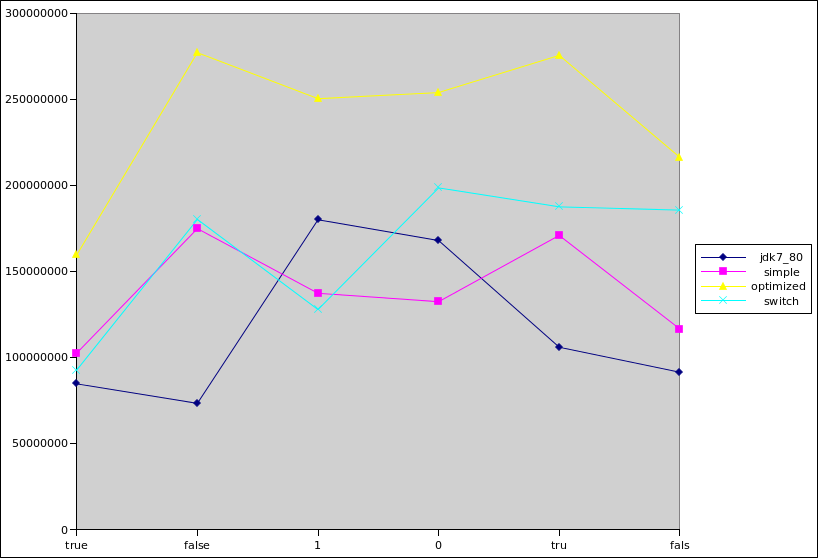
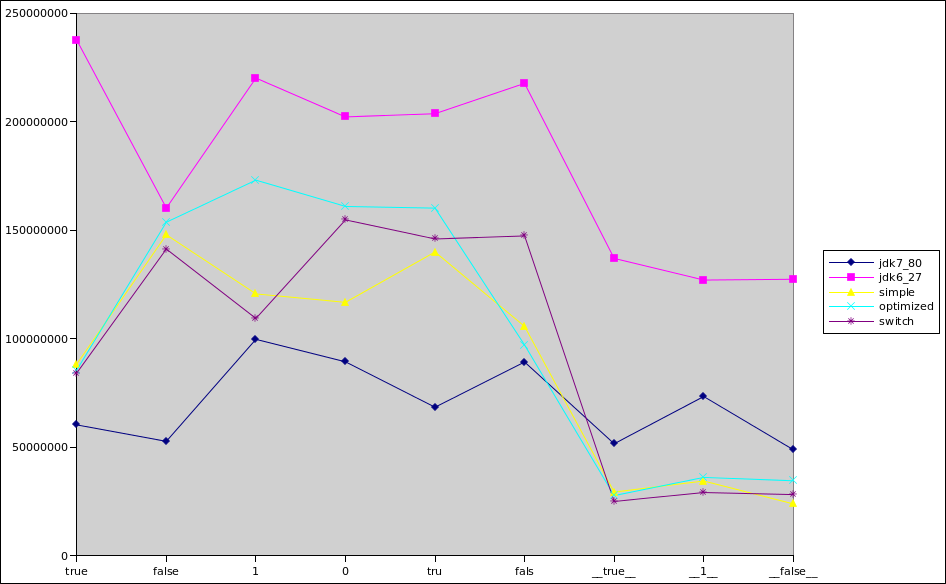
perf tests with whitespaces

diff --git a/README.md b/README.md
@@ -8,32 +8,52 @@ Or just have a look at this [Slideshow](https://docs.google.com/presentation/d/1
 ## Perf Tests (with jmh)
 
 ```
-Benchmark                         (implId)  (valueParam)   Mode  Cnt          Score          Error  Units
-ParseBooleanBenchmarkTest.parse    jdk7_80          true  thrpt    4   84719839,361 ± 10027251,036  ops/s
-ParseBooleanBenchmarkTest.parse    jdk7_80         false  thrpt    4   73403162,008 ± 22642775,811  ops/s
-ParseBooleanBenchmarkTest.parse    jdk7_80             1  thrpt    4  180025131,193 ± 16352509,045  ops/s
-ParseBooleanBenchmarkTest.parse    jdk7_80             0  thrpt    4  167937993,528 ±  9984928,741  ops/s
-ParseBooleanBenchmarkTest.parse    jdk7_80           tru  thrpt    4  105980015,559 ± 19840245,954  ops/s
-ParseBooleanBenchmarkTest.parse    jdk7_80          fals  thrpt    4   91456525,828 ± 32330785,564  ops/s
-ParseBooleanBenchmarkTest.parse     simple          true  thrpt    4  102604504,085 ±  7463952,145  ops/s
-ParseBooleanBenchmarkTest.parse     simple         false  thrpt    4  174869520,517 ± 16753896,650  ops/s
-ParseBooleanBenchmarkTest.parse     simple             1  thrpt    4  137312173,634 ± 44534835,274  ops/s
-ParseBooleanBenchmarkTest.parse     simple             0  thrpt    4  132433676,462 ± 16238424,776  ops/s
-ParseBooleanBenchmarkTest.parse     simple           tru  thrpt    4  170909714,696 ± 46615839,094  ops/s
-ParseBooleanBenchmarkTest.parse     simple          fals  thrpt    4  116565356,007 ± 86759239,452  ops/s
-ParseBooleanBenchmarkTest.parse  optimized          true  thrpt    4  159598865,985 ±  5528370,262  ops/s
-ParseBooleanBenchmarkTest.parse  optimized         false  thrpt    4  277048045,327 ± 14638444,645  ops/s
-ParseBooleanBenchmarkTest.parse  optimized             1  thrpt    4  250331655,814 ± 48007610,341  ops/s
-ParseBooleanBenchmarkTest.parse  optimized             0  thrpt    4  253897870,031 ±  8955186,318  ops/s
-ParseBooleanBenchmarkTest.parse  optimized           tru  thrpt    4  275489111,221 ± 24918386,943  ops/s
-ParseBooleanBenchmarkTest.parse  optimized          fals  thrpt    4  216237759,941 ± 92689399,945  ops/s
-ParseBooleanBenchmarkTest.parse     switch          true  thrpt    4   92768261,646 ± 33988023,571  ops/s
-ParseBooleanBenchmarkTest.parse     switch         false  thrpt    4  180210311,411 ± 77442740,067  ops/s
-ParseBooleanBenchmarkTest.parse     switch             1  thrpt    4  127860856,316 ±  7575470,046  ops/s
-ParseBooleanBenchmarkTest.parse     switch             0  thrpt    4  198510628,038 ±  7876639,792  ops/s
-ParseBooleanBenchmarkTest.parse     switch           tru  thrpt    4  187543383,273 ± 17958779,824  ops/s
-ParseBooleanBenchmarkTest.parse     switch          fals  thrpt    4  185629959,788 ± 17287948,825  ops/s
-
+Benchmark                         (implId)  (valueParam)   Mode  Cnt          Score           Error  Units
+ParseBooleanBenchmarkTest.parse    jdk7_80          true  thrpt    4   60285349,555 ±  65325908,698  ops/s
+ParseBooleanBenchmarkTest.parse    jdk7_80         false  thrpt    4   52706956,521 ±  26966684,617  ops/s
+ParseBooleanBenchmarkTest.parse    jdk7_80             1  thrpt    4   99705655,466 ±  85285336,117  ops/s
+ParseBooleanBenchmarkTest.parse    jdk7_80             0  thrpt    4   89344275,275 ±  48606064,281  ops/s
+ParseBooleanBenchmarkTest.parse    jdk7_80           tru  thrpt    4   68424151,623 ±  82223704,776  ops/s
+ParseBooleanBenchmarkTest.parse    jdk7_80          fals  thrpt    4   89249107,885 ±  25243661,207  ops/s
+ParseBooleanBenchmarkTest.parse    jdk7_80        true    thrpt    4   51603980,539 ±   4852101,815  ops/s
+ParseBooleanBenchmarkTest.parse    jdk7_80           1    thrpt    4   73358647,104 ±   9462276,459  ops/s
+ParseBooleanBenchmarkTest.parse    jdk7_80       false    thrpt    4   48850618,823 ±  11597475,396  ops/s
+ParseBooleanBenchmarkTest.parse    jdk6_27          true  thrpt    4  237560647,968 ±  65579987,160  ops/s
+ParseBooleanBenchmarkTest.parse    jdk6_27         false  thrpt    4  160203103,228 ± 537654380,533  ops/s
+ParseBooleanBenchmarkTest.parse    jdk6_27             1  thrpt    4  220091226,991 ±  46177982,333  ops/s
+ParseBooleanBenchmarkTest.parse    jdk6_27             0  thrpt    4  202196491,377 ±  49814236,739  ops/s
+ParseBooleanBenchmarkTest.parse    jdk6_27           tru  thrpt    4  203671051,817 ± 194380088,383  ops/s
+ParseBooleanBenchmarkTest.parse    jdk6_27          fals  thrpt    4  217633358,316 ±  58331926,324  ops/s
+ParseBooleanBenchmarkTest.parse    jdk6_27        true    thrpt    4  136988808,260 ±   9950536,346  ops/s
+ParseBooleanBenchmarkTest.parse    jdk6_27           1    thrpt    4  127049248,240 ±   8821005,832  ops/s
+ParseBooleanBenchmarkTest.parse    jdk6_27       false    thrpt    4  127396284,553 ±   5525441,991  ops/s
+ParseBooleanBenchmarkTest.parse     simple          true  thrpt    4   88320339,080 ±  45107699,173  ops/s
+ParseBooleanBenchmarkTest.parse     simple         false  thrpt    4  147883260,092 ±   3662528,825  ops/s
+ParseBooleanBenchmarkTest.parse     simple             1  thrpt    4  120661954,593 ±  80556178,516  ops/s
+ParseBooleanBenchmarkTest.parse     simple             0  thrpt    4  116764629,037 ±   6919198,847  ops/s
+ParseBooleanBenchmarkTest.parse     simple           tru  thrpt    4  139951218,748 ±  50940317,893  ops/s
+ParseBooleanBenchmarkTest.parse     simple          fals  thrpt    4  105665039,834 ±   5284590,847  ops/s
+ParseBooleanBenchmarkTest.parse     simple        true    thrpt    4   29333915,799 ±  40324206,871  ops/s
+ParseBooleanBenchmarkTest.parse     simple           1    thrpt    4   34417054,862 ±  31824070,023  ops/s
+ParseBooleanBenchmarkTest.parse     simple       false    thrpt    4   23880691,528 ±  43534768,009  ops/s
+ParseBooleanBenchmarkTest.parse  optimized          true  thrpt    4   85592648,015 ±  53083444,220  ops/s
+ParseBooleanBenchmarkTest.parse  optimized         false  thrpt    4  153670856,737 ± 115112793,570  ops/s
+ParseBooleanBenchmarkTest.parse  optimized             1  thrpt    4  173054123,361 ± 150001256,555  ops/s
+ParseBooleanBenchmarkTest.parse  optimized             0  thrpt    4  160961675,932 ±  90129367,137  ops/s
+ParseBooleanBenchmarkTest.parse  optimized           tru  thrpt    4  160184309,862 ±  56959952,223  ops/s
+ParseBooleanBenchmarkTest.parse  optimized          fals  thrpt    4   97111825,392 ±  64109764,445  ops/s
+ParseBooleanBenchmarkTest.parse  optimized        true    thrpt    4   27694727,394 ±  57301482,442  ops/s
+ParseBooleanBenchmarkTest.parse  optimized           1    thrpt    4   36088231,987 ±  27215797,440  ops/s
+ParseBooleanBenchmarkTest.parse  optimized       false    thrpt    4   34533322,242 ±  72163986,540  ops/s
+ParseBooleanBenchmarkTest.parse     switch          true  thrpt    4   84212024,236 ±  13692155,165  ops/s
+ParseBooleanBenchmarkTest.parse     switch         false  thrpt    4  141307585,100 ±  62814541,458  ops/s
+ParseBooleanBenchmarkTest.parse     switch             1  thrpt    4  109323034,934 ±   1416267,886  ops/s
+ParseBooleanBenchmarkTest.parse     switch             0  thrpt    4  154735816,673 ±  19580444,092  ops/s
+ParseBooleanBenchmarkTest.parse     switch           tru  thrpt    4  145973999,516 ±  13767931,453  ops/s
+ParseBooleanBenchmarkTest.parse     switch          fals  thrpt    4  147384939,998 ±  13101870,915  ops/s
+ParseBooleanBenchmarkTest.parse     switch        true    thrpt    4   25009079,221 ±  30847955,955  ops/s
+ParseBooleanBenchmarkTest.parse     switch           1    thrpt    4   29134680,169 ±  30911055,488  ops/s
+ParseBooleanBenchmarkTest.parse     switch       false    thrpt    4   28182935,826 ±  38778782,331  ops/s
 ```
 
 ![Charts](perf-tests.png)
